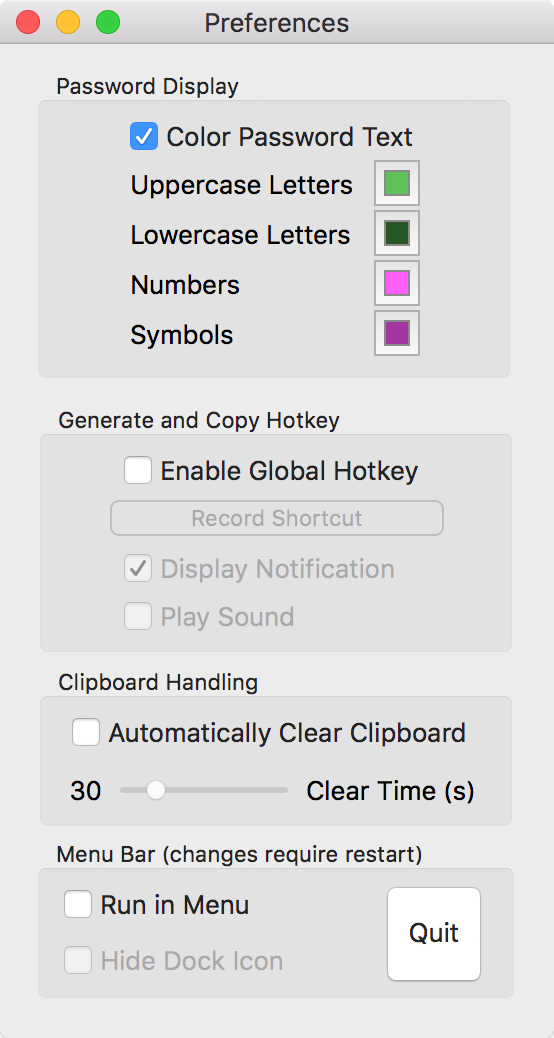
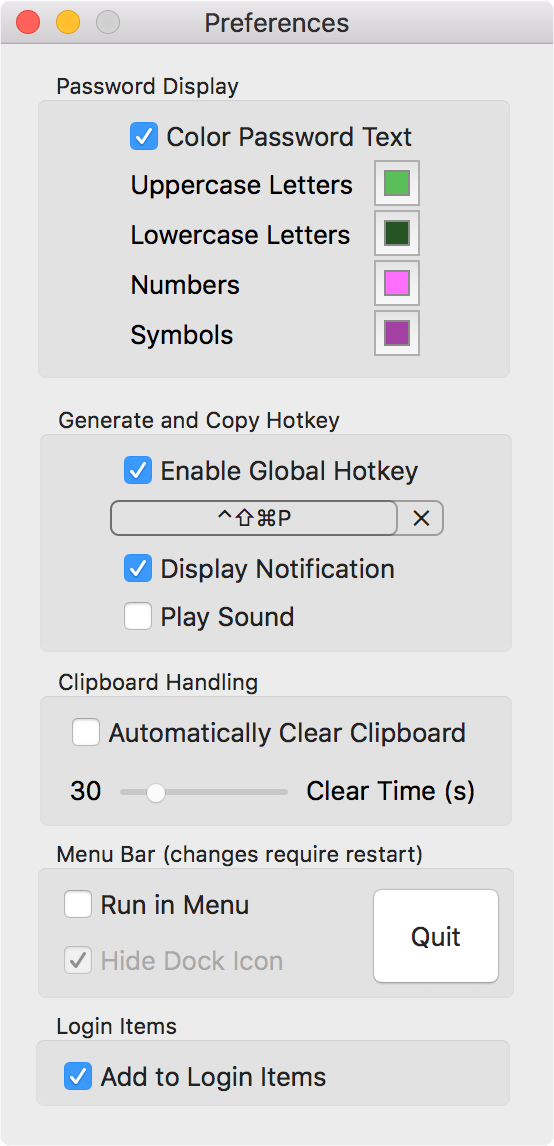
Updated help

Changed region(s): [[0.0, 0.0, 1.0, 0.5549], [0.0921, 0.5857, 0.9206, 0.9557]]

diff --git a/Password Factory/Assets/PasswordFactory.help/Contents/Resources/en.lproj/index.html b/Password Factory/Assets/PasswordFactory.help/Contents/Resources/en.lproj/index.html
@@ -56,6 +56,9 @@
                 <li>
                     <a href="#preferences_menu">Menu</a>
                 </li>
+                <li>
+                    <a href="#preferences_login">Add to Login Items</a>
+                </li>
             </ul>
         </div>
         <div class="content">
@@ -71,7 +74,7 @@
                 <p>The window consists of the password viewing area and the password generating area.</p>
                 <section id="viewing_area">
                     <h3>Viewing Area</h3>
-                    <img class="window" src="gfx/viewing.png" width="406" />
+                    <img class="window" src="gfx/viewing.png" width="425" />
                     <p>This area consists of three sections, the password viewing area, strength meter, and the control buttons.</p>
                     <p>The password viewing area shows the currently generated password. The password is either shown in black or highlighted. When the password is highlighted each type of character is shown in a different color. <a href="#preferences_password_display">See Preferences - Password Display</a> for more information.</p>
                     <p>Below the password field is the strength meter. The stength meter will fill and indicate the relative strength via a color. Red is weak, yellow is medium, and green is strong. The strength meter goes from 0 to 100 and 100 is the strongest.</p>
@@ -87,7 +90,7 @@
             </section>
             <section id="random_generator">
                 <h2>Random Password</h2>
-                <img class="window" src="gfx/random.png" width="406" />
+                <img class="window" src="gfx/random.png" width="425" />
                 <p>The random option will generate a random password based on the options selected.</p>
                 <dl>
                     <dt>Length</dt>
@@ -102,7 +105,7 @@
             </section>
             <section id="pattern_generator">
                 <h2>Pattern</h2>
-                <img class="window" src="gfx/pattern.png" width="406" />
+                <img class="window" src="gfx/pattern.png" width="425" />
                 <p>The password generated will be based upon the pattern typed in the pattern field. A pattern is a series of characters that are replaced with a random character or characters following the pattern. The pattern symbols are as follows</p>
                 <dl>
                     <dt>#</dt>
@@ -127,26 +130,26 @@
             </section>
             <section id="pronounceable_generator">
                 <h2>Pronounceable</h2>
-                <img src="gfx/pronounceable.png" class="window" width="406" />
+                <img src="gfx/pronounceable.png" class="window" width="425" />
                 <p>The pronounceable tab will generate a random password that is pronounceable rather than random. There are two options for generating, length, and separator</p>
                 <p>The length slider will set the approximate length for the password, and the separator buttons toggle between six different separators</p>
             </section>
             <section id="passphrase_generator">
                 <h2>Passphrase</h2>
-                <img src="gfx/passphrase.png" class="window" width="406" />
+                <img src="gfx/passphrase.png" class="window" width="425" />
                 <p>The passphrase tab will generate a passphrase style password. The password will consist of a series of words separated by your chosen separator character.</p>
                 <p>The length slider will set the approximate length of the passphrase, and the separator buttons will choose the separator. The word case buttons will set the case style of each of the words in the passphrase. </p>
             </section>
             <section id="widget">
             	<h2>Widget</h2>
-            	<img src="gfx/widget.png" class="window" width="274" />
+            	<img src="gfx/widget.png" class="window" width="331" />
             	<p>You can enable the widget by going to the notification center and clicking edit, and then you can add the "Password Factory" widget</p>
-                <img src="gfx/widget-add.png" class="window" width="308" />
+                <img src="gfx/widget-add.png" class="window" width="331" />
             	<p>The widget will generate passwords based upon the configuration of the Password Factory application. Therefore, if the 'Passphrase' type is set, then the widget will generate a 'Passphrase' password using the current settings. The widget can only generate and copy passwords, and if you wish to change the password type go back to the application by clicking the gear and change settings from there.</p>
             </section>
             <section id="preferences">
                 <h2>Preferences</h2>
-                <img class="window" src="gfx/prefs.png" width="278" />
+                <img class="window" src="gfx/prefs.png" width="277" />
                 <section id="preferences_password_display">
                     <h3>Password Display</h3>
                     <p>The password display section controls how the password is shown in the app. If 'Color Password Text" is checked the characters in the password will be colored. Coloring the password text will enable you to easily distinguish between similar characters. You can change the color of each character type by clicking on the color boxes and selecting a new color</p>
@@ -183,6 +186,14 @@
                         <img src="gfx/menu.png" class="inline" width="20" />. If you enable or disable this feature, you will have to restart the app for the setting to be changed. You can also hide the dock icon while running as a menu bar application, but changing this setting will also require you to restart the application.</p>
                     <p class="note">
                         Note: if you are running as a menu app, the app may modify the password display colors for legibility
+                    </p>
+                </section>
+                <section id="preferences_login">
+                    <h3>Add to Login Items</h3>
+                    <p>Checking this will add Password Factory to your login items. In order for the app to be added to your login items, it has to be installed in Applications
+                    </p>
+                    <p class="note">
+                        Note: If you add to login items it will not show up in your Accounts preferences, however it will start on login if it is checked
                     </p>
                 </section>
             </section>
